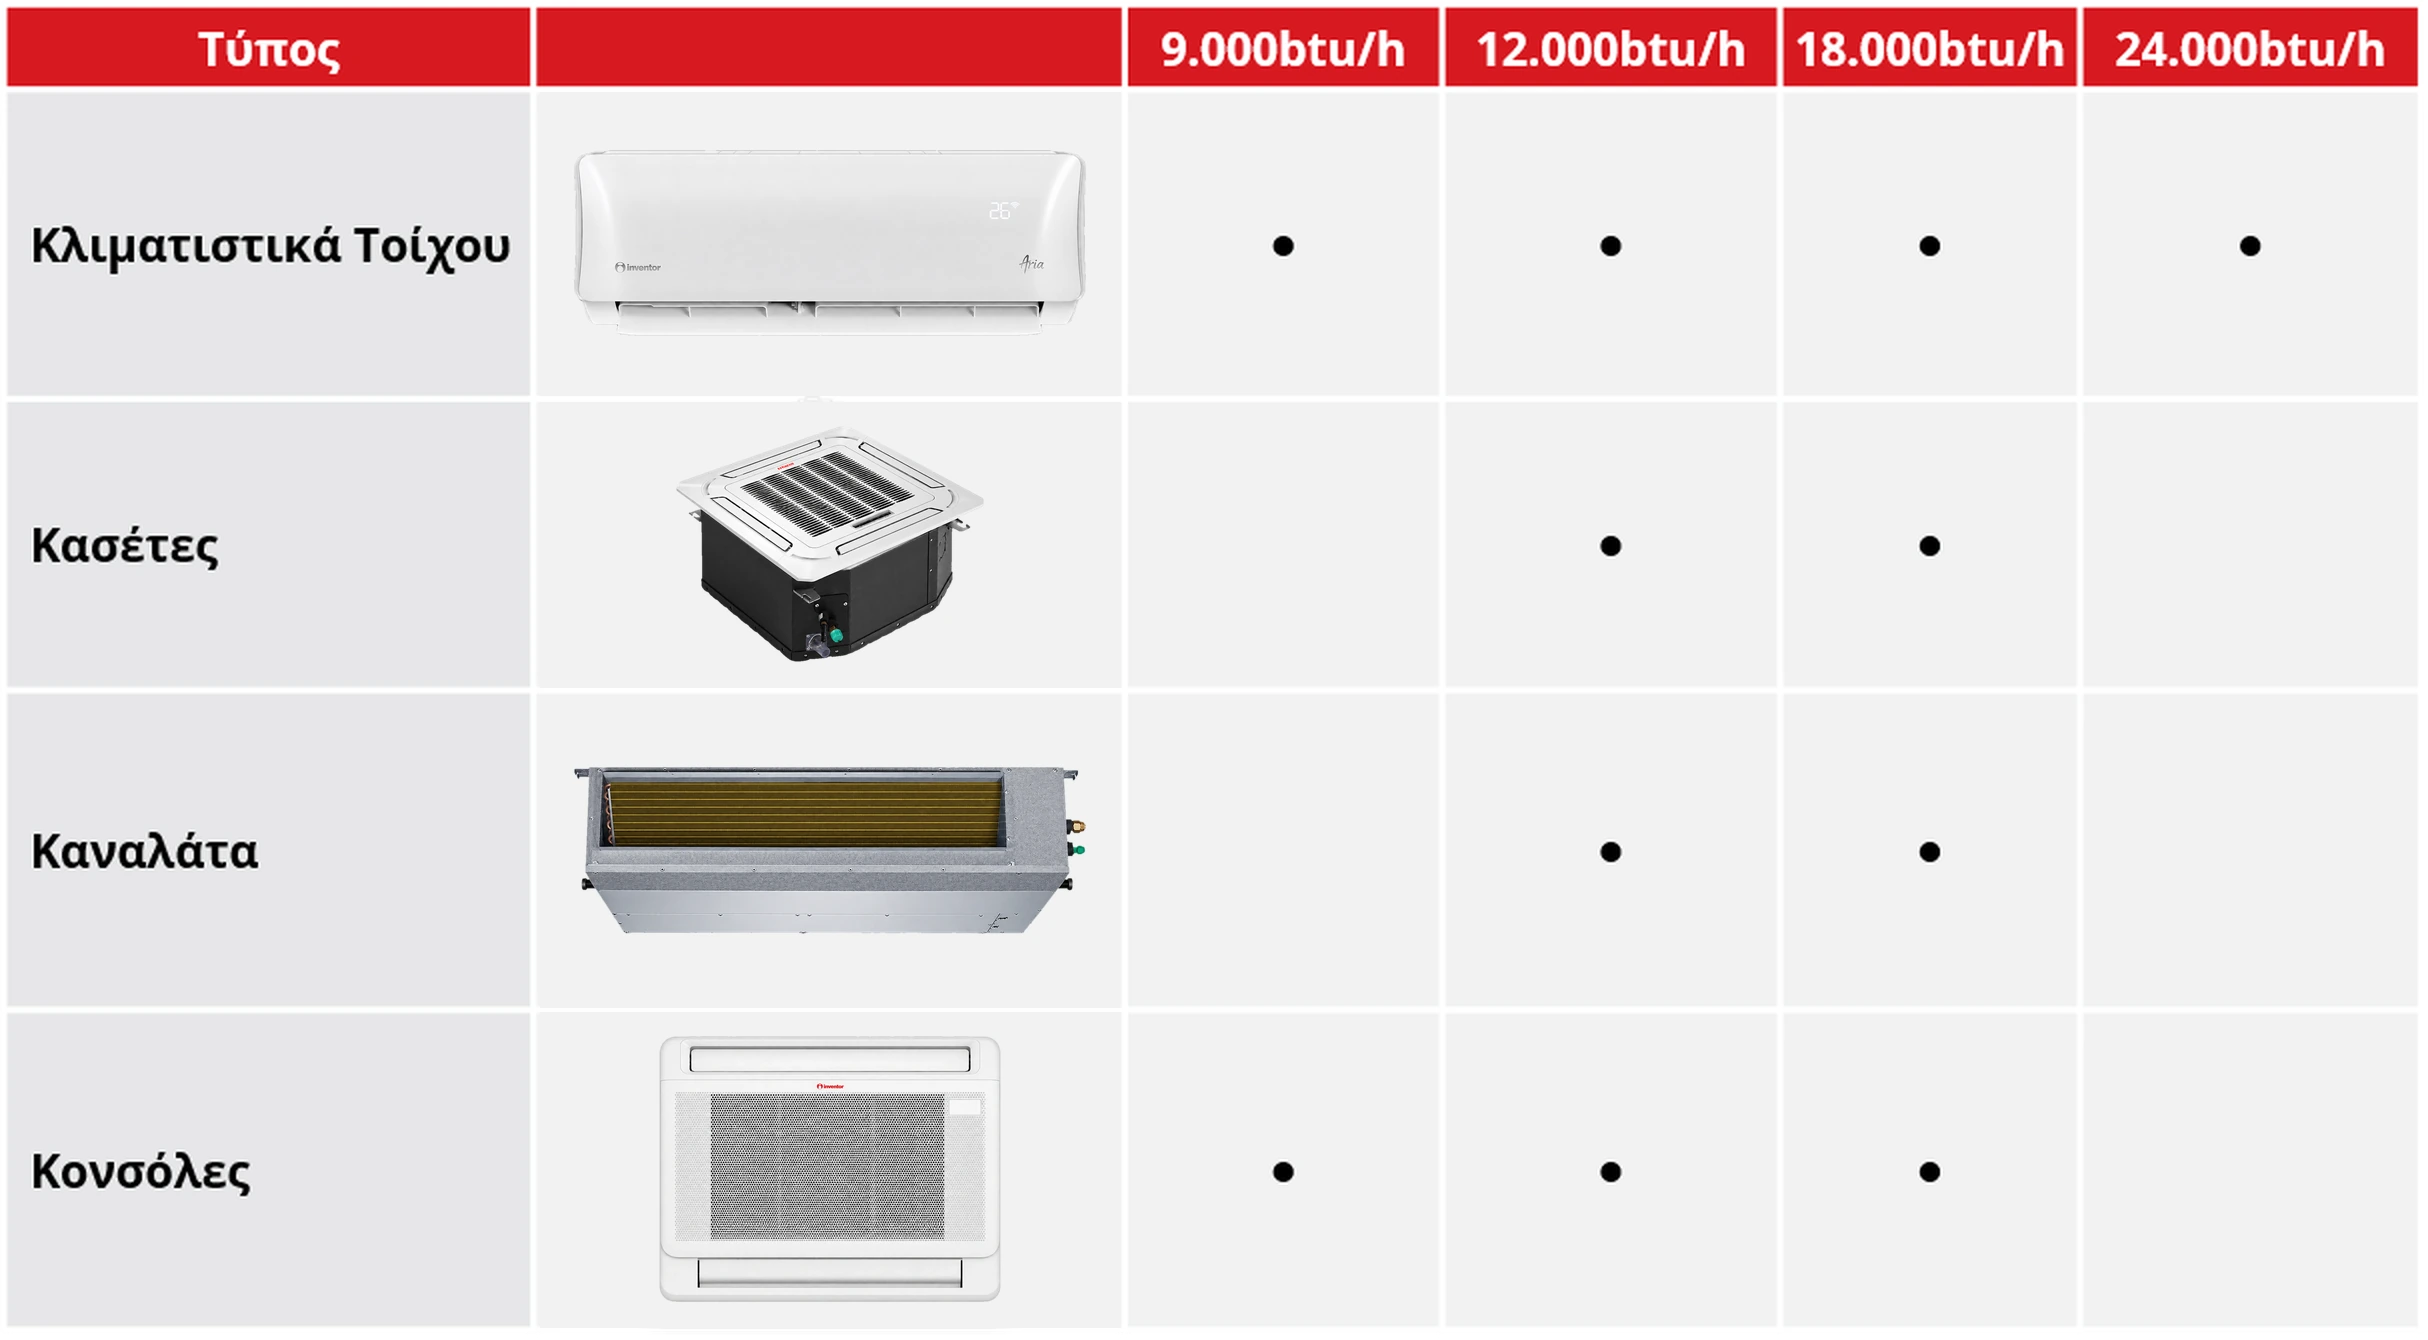
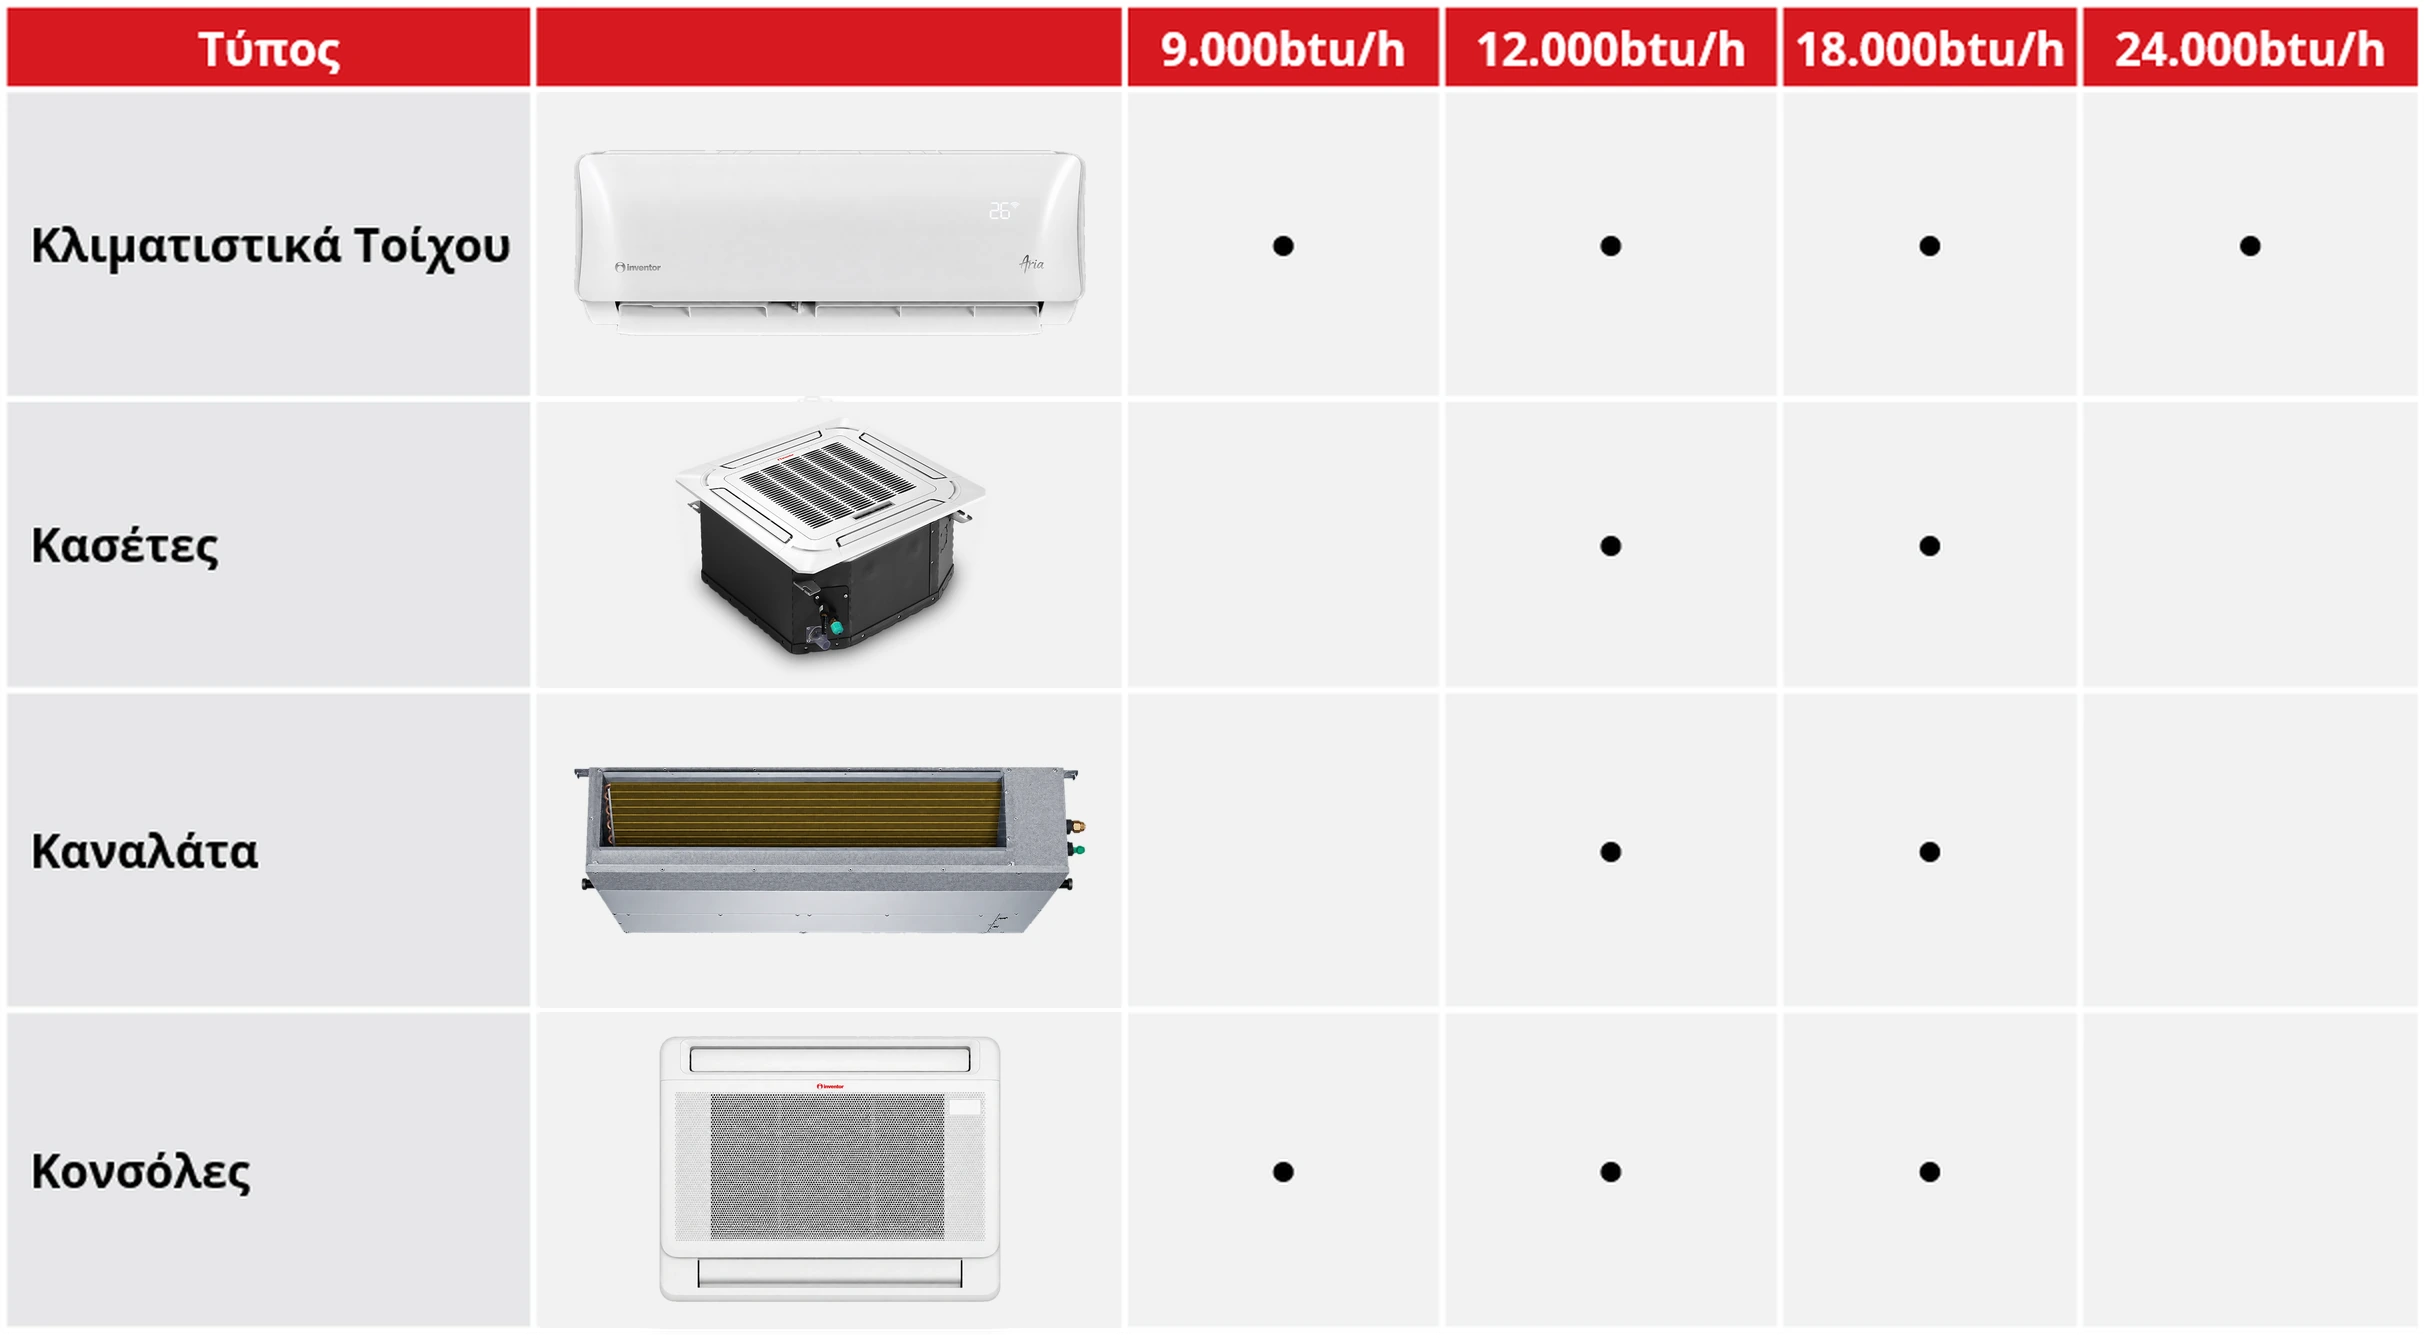
ΠΗΟΤΟ

Changed region(s): [[0.278, 0.306, 0.4016, 0.5201]]

diff --git a/inventor-b2b-crete-2026/index.html b/inventor-b2b-crete-2026/index.html
@@ -446,7 +446,7 @@
       <div class="tile ptile rv" style="--d:670"><div class="face front"><div class="wim"><img src="assets/img/crete/c41_3.webp" alt=""></div><h3>Κασέτες ψευδοροφής</h3></div></div>
       <div class="tile ptile rv" style="--d:780"><div class="face front"><div class="wim"><img src="assets/img/crete/c41_4.webp" alt=""></div><h3>Κονσόλες</h3></div></div>
       <div class="tile ptile rv" style="--d:890"><div class="face front"><div class="wim"><img src="assets/img/crete/c41_5.webp" alt=""></div><h3>Δαπέδου / οροφής</h3></div></div>
-      <div class="tile ptile rv" style="--d:1000"><div class="face front"><div class="wim"><img src="assets/img/crete/c41_6.webp" alt=""></div><h3>Ντουλάπες εμφανούς τύπου</h3></div></div>
+      <div class="tile ptile rv" style="--d:1000"><div class="face front"><div class="wim"><img src="assets/img/crete/c41_6.webp?v=2" alt=""></div><h3>Ντουλάπες εμφανούς τύπου</h3></div></div>
     </div>
   </section>
   <section class="slide tech c42 " data-group="g2" data-cat="Ημικεντρικά Κλιματιστικά" data-notes="">
@@ -455,7 +455,7 @@
     <div class="tb rv fade" style="--d:300">
       <div class="tt" style="left:767px;top:783px;width:819px;font-size:19px;"><p><b>U6RSL(2)-18 : (1→2) 18.000Btu/h (805 x 554 x 330mm)</b></p><p><b>U6RSL(3)-27 : (1→3) 27.000Btu/h (890 x 673 x 342mm)</b></p><p><b>U5MRSL32(4)-36 : (1→4) 36.000Btu/h (946 x 810 x 410mm)</b></p><p><b>U6RSL(5)-42 : (1→5) 42.000Btu/h (946 x 810 x 410mm)</b></p></div>
       <img class="ti" src="assets/img/crete/s42_1.png?v=2" style="left:110px;top:466px;width:563px;height:379px" alt="">
-      <img class="ti" src="assets/img/crete/t42.webp" style="left:754px;top:207px;width:1166px;height:643px" alt="">
+      <img class="ti" src="assets/img/crete/t42.webp?v=2" style="left:754px;top:207px;width:1166px;height:643px" alt="">
     </div>
   </section>
   <section class="slide tech c43 " data-group="g2" data-cat="Ημικεντρικά Κλιματιστικά" data-notes="Βίντεο: συνδέσεις πολυδιαιρούμενων.">
@@ -469,14 +469,14 @@
   <section class="slide tech c44 " data-group="g2" data-cat="Ημικεντρικά Κλιματιστικά" data-notes="">
     <div class="whead"><div class="eyebrow rv" style="--d:0">Η συνεργασία που χρειάζεστε – Ημικεντρικά Κλιματιστικά</div><h2 class="h-md rv" style="--d:120">Ντουλάπες Εμφανούς Τύπου</h2></div>
     <div class="tb rv fade" style="--d:300">
-      <table class="tbl imgcol big" style="left:133px;top:300px;width:1240px"><tr><th>Τύπος</th><th></th><th>24.000btu/h</th><th>48.000btu/h</th><th>55.000btu/h</th></tr><tr><th>V7FSI-24 / V7FSO-24</th><td class="pimg"><img src="assets/img/crete/t44-tower.webp" alt=""></td><td class="dot">•</td><td></td><td></td></tr><tr><th>V6FI-60 / V6FO-60</th><td class="pimg"><img src="assets/img/crete/t44-v6.webp" alt=""></td><td></td><td class="dot">•</td><td></td></tr><tr><th>V7iFI-66 / U7iRT-66</th><td class="pimg"><img src="assets/img/crete/t44-v7i.webp" alt=""></td><td></td><td></td><td class="dot">•</td></tr></table>
+      <table class="tbl imgcol big" style="left:133px;top:300px;width:1240px"><tr><th>Τύπος</th><th></th><th>24.000btu/h</th><th>48.000btu/h</th><th>55.000btu/h</th></tr><tr><th>V7FSI-24 / V7FSO-24</th><td class="pimg"><img src="assets/img/crete/t44-tower.webp?v=2" alt=""></td><td class="dot">•</td><td></td><td></td></tr><tr><th>V6FI-60 / V6FO-60</th><td class="pimg"><img src="assets/img/crete/t44-v6.webp" alt=""></td><td></td><td class="dot">•</td><td></td></tr><tr><th>V7iFI-66 / U7iRT-66</th><td class="pimg"><img src="assets/img/crete/t44-v7i.webp" alt=""></td><td></td><td></td><td class="dot">•</td></tr></table>
     </div>
   </section>
   <section class="slide tech c45 " data-group="g2" data-cat="Ημικεντρικά Κλιματιστικά" data-notes="">
     <div class="whead"><div class="eyebrow rv" style="--d:0">Η συνεργασία που χρειάζεστε – Ημικεντρικά Κλιματιστικά</div><h2 class="h-md rv" style="--d:120">Ημικεντρικά Κλιματιστικά V7 – V7i</h2></div>
     <div class="tsub rv" style="--d:250">Η γκάμα</div>
     <div class="tb rv fade" style="--d:300">
-      <table class="tbl imgcol big" style="left:110px;top:300px;width:1700px"><tr><th>Τύπος</th><th></th><th>9.000btu/h</th><th>12.000btu/h</th><th>18.000btu/h</th><th>24.000btu/h</th><th>36.000btu/h</th><th>42.000btu/h</th><th>48.000btu/h</th><th>55.000btu/h</th><th>95.600btu/h</th></tr><tr><th>Κασέτες</th><td class="pimg"><img src="assets/img/crete/t45-cas.webp" alt=""></td><td></td><td class="dot">•</td><td class="dot">•</td><td class="dot">•</td><td class="dot">•</td><td class="dot">•</td><td class="dot">•</td><td class="dot">•</td><td></td></tr><tr><th rowspan="2">Καναλάτα</th><td class="pimg"><img src="assets/img/crete/t45-duct.webp" alt=""></td><td></td><td class="dot">•</td><td class="dot">•</td><td class="dot">•</td><td class="dot">•</td><td class="dot">•</td><td class="dot">•</td><td class="dot">•</td><td></td></tr><tr><td class="pimg"><img src="assets/img/crete/t45-duct2.webp" alt=""></td><td></td><td></td><td></td><td></td><td></td><td></td><td></td><td></td><td class="dot">•</td></tr><tr><th>Δαπέδου - Οροφής</th><td class="pimg"><img src="assets/img/crete/t45-fc.webp" alt=""></td><td></td><td></td><td class="dot">•</td><td class="dot">•</td><td class="dot">•</td><td></td><td class="dot">•</td><td class="dot">•</td><td></td></tr><tr><th>Κονσόλες</th><td class="pimg"><img src="assets/img/crete/t45-con.webp" alt=""></td><td class="dot">•</td><td class="dot">•</td><td class="dot">•</td><td></td><td></td><td></td><td></td><td></td><td></td></tr></table>
+      <table class="tbl imgcol big" style="left:110px;top:300px;width:1700px"><tr><th>Τύπος</th><th></th><th>9.000btu/h</th><th>12.000btu/h</th><th>18.000btu/h</th><th>24.000btu/h</th><th>36.000btu/h</th><th>42.000btu/h</th><th>48.000btu/h</th><th>55.000btu/h</th><th>95.600btu/h</th></tr><tr><th>Κασέτες</th><td class="pimg"><img src="assets/img/crete/t45-cas.webp?v=3" alt=""></td><td></td><td class="dot">•</td><td class="dot">•</td><td class="dot">•</td><td class="dot">•</td><td class="dot">•</td><td class="dot">•</td><td class="dot">•</td><td></td></tr><tr><th rowspan="2">Καναλάτα</th><td class="pimg"><img src="assets/img/crete/t45-duct.webp" alt=""></td><td></td><td class="dot">•</td><td class="dot">•</td><td class="dot">•</td><td class="dot">•</td><td class="dot">•</td><td class="dot">•</td><td class="dot">•</td><td></td></tr><tr><td class="pimg"><img src="assets/img/crete/t45-duct2.webp" alt=""></td><td></td><td></td><td></td><td></td><td></td><td></td><td></td><td></td><td class="dot">•</td></tr><tr><th>Δαπέδου - Οροφής</th><td class="pimg"><img src="assets/img/crete/t45-fc.webp" alt=""></td><td></td><td></td><td class="dot">•</td><td class="dot">•</td><td class="dot">•</td><td></td><td class="dot">•</td><td class="dot">•</td><td></td></tr><tr><th>Κονσόλες</th><td class="pimg"><img src="assets/img/crete/t45-con.webp" alt=""></td><td class="dot">•</td><td class="dot">•</td><td class="dot">•</td><td></td><td></td><td></td><td></td><td></td><td></td></tr></table>
     </div>
   </section>
   <section class="slide tech c46 " data-group="g2" data-cat="Ημικεντρικά Κλιματιστικά" data-notes="">
